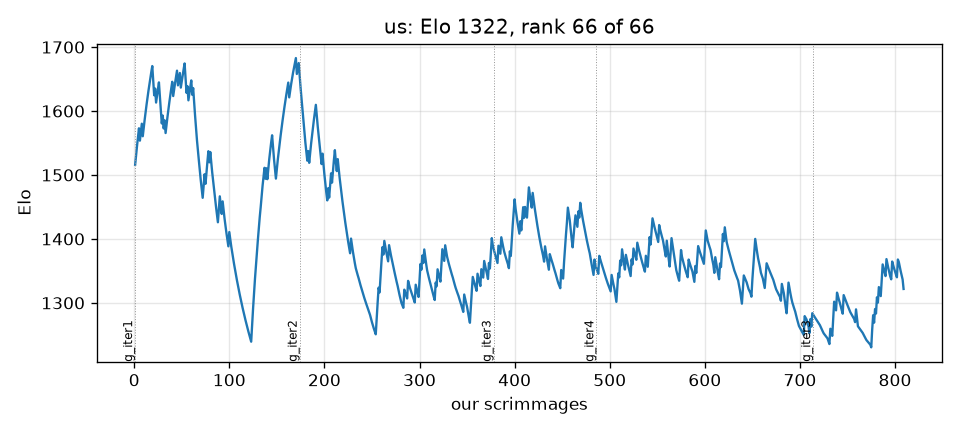
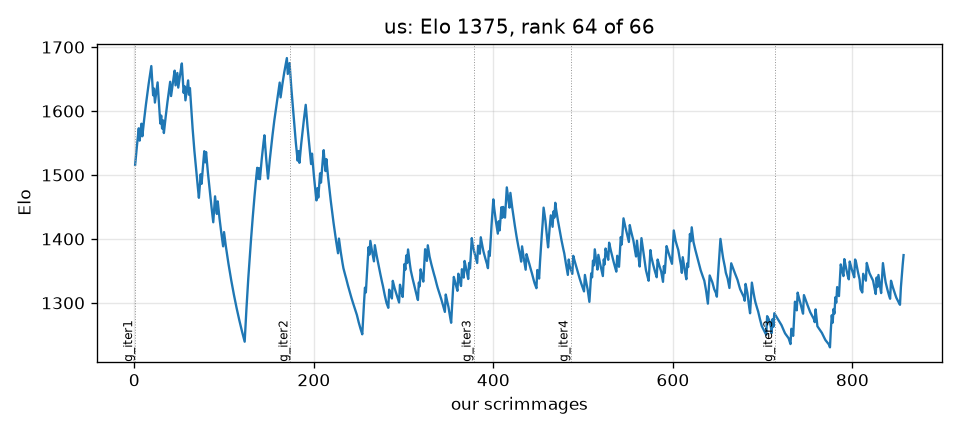
Plateau revision measured (roles need a rewrite, not a patch); src/bot = g_iter3
Claude-Session: https://claude.ai/code/session_01CTUHPRaZ9DbYUkpWKYf2Y2

diff --git a/BENCHMARK.md b/BENCHMARK.md
@@ -61,7 +61,7 @@ every recorded block; the tier is the most recent build's record against that op
 | `EmaPajic.Mark3` | EmaPajic_Battlecode-2020 (c060a22) | - | - | untested |  |
 | `EmaPajic.Mark4` | EmaPajic_Battlecode-2020 (c060a22) | - | - | untested |  |
 | `EmaPajic.Mark5` | EmaPajic_Battlecode-2020 (c060a22) | - | - | untested |  |
-| `EmaPajic.Qualifications` | EmaPajic_Battlecode-2020 (c060a22) | 0 | 12 | locked | 20 0 7 0 |
+| `EmaPajic.Qualifications` | EmaPajic_Battlecode-2020 (c060a22) | 0 | 12 | locked | 20 0 11 0 |
 | `EmaPajic.SeedingBot` | EmaPajic_Battlecode-2020 (c060a22) | - | - | untested |  |
 | `GabrielDWu.basicbot` | GabrielDWu_blezers-battlecode2020 (c0283f8) | - | - | untested |  |
 | `GabrielDWu.blezerbot` | GabrielDWu_blezers-battlecode2020 (c0283f8) | - | - | untested |  |
@@ -79,7 +79,7 @@ every recorded block; the tier is the most recent build's record against that op
 | `IvanGeffner.dronecrunchplus` | IvanGeffner_battlecode2020 (bc7dbca) | - | - | untested |  |
 | `IvanGeffner.ecoplayer` | IvanGeffner_battlecode2020 (bc7dbca) | - | - | untested |  |
 | `IvanGeffner.ecoplus` | IvanGeffner_battlecode2020 (bc7dbca) | - | - | untested |  |
-| `IvanGeffner.finalbota` | IvanGeffner_battlecode2020 (bc7dbca) | 18 | 17 | locked | 0 8 7 18 |
+| `IvanGeffner.finalbota` | IvanGeffner_battlecode2020 (bc7dbca) | 18 | 17 | locked | 0 8 11 18 |
 | `IvanGeffner.finalbotb` | IvanGeffner_battlecode2020 (bc7dbca) | - | - | untested |  |
 | `IvanGeffner.finalbotc` | IvanGeffner_battlecode2020 (bc7dbca) | - | - | untested |  |
 | `IvanGeffner.landscaperop` | IvanGeffner_battlecode2020 (bc7dbca) | - | - | untested |  |
@@ -158,8 +158,8 @@ every recorded block; the tier is the most recent build's record against that op
 | `anthonybench.redemptionplayer` | anthonybench_MITBattleCode-2020 (38fbb99) | - | - | untested |  |
 | `arya-k.donothing` | arya-k_bc20 (1b969b3) | - | - | untested |  |
 | `atliSig.buttletplayer` | atliSig_battlecode20-scaffold (b64b063) | 100 | 1 | peer(>90 once) | 100 |
-| `awesomelemonade.citricsky` | awesomelemonade_Battlecode2020 (7a50e66) | 0 | 16 | locked | 0 0 7 0 |
-| `battlecode20-team4.finalbota` | battlecode20-team4_battlecode20-scaffold (1cee065) | 24 | 17 | target | 0 8 36 24 |
+| `awesomelemonade.citricsky` | awesomelemonade_Battlecode2020 (7a50e66) | 0 | 16 | locked | 0 0 5 0 |
+| `battlecode20-team4.finalbota` | battlecode20-team4_battlecode20-scaffold (1cee065) | 24 | 17 | target | 0 8 33 24 |
 | `battlecode20-team4.team4enemy` | battlecode20-team4_battlecode20-scaffold (1cee065) | - | - | untested |  |
 | `battlecode20-team4.team4player` | battlecode20-team4_battlecode20-scaffold (1cee065) | - | - | untested |  |
 | `battlecode.lectureplayer` | battlecode_lectureplayer (2836576) | - | - | untested |  |
@@ -170,11 +170,11 @@ every recorded block; the tier is the most recent build's record against that op
 | `benzyx.espada` | benzyx_bc20-waterloo (05df2e7) | - | - | untested |  |
 | `benzyx.firstplayer` | benzyx_bc20-waterloo (05df2e7) | - | - | untested |  |
 | `benzyx.kurobot` | benzyx_bc20-waterloo (05df2e7) | - | - | untested |  |
-| `benzyx.seeding` | benzyx_bc20-waterloo (05df2e7) | 40 | 15 | target | 25 17 82 40 |
+| `benzyx.seeding` | benzyx_bc20-waterloo (05df2e7) | 40 | 15 | target | 25 17 77 40 |
 | `benzyx.tortuga` | benzyx_bc20-waterloo (05df2e7) | - | - | untested |  |
 | `charboltron.master_player` | charboltron_pdx_battlecode_2020_team_11 (f78f1e3) | - | - | untested |  |
 | `charboltron.team11newbot` | charboltron_pdx_battlecode_2020_team_11 (f78f1e3) | 100 | 1 | peer(>90 once) | 100 |
-| `cormackikkert.whyPermutator` | cormackikkert_battlecode2020 (4d230c4) | 40 | 15 | target | 25 17 29 40 |
+| `cormackikkert.whyPermutator` | cormackikkert_battlecode2020 (4d230c4) | 40 | 15 | target | 25 17 28 40 |
 | `cormackikkert.whyPermutatorOld` | cormackikkert_battlecode2020 (4d230c4) | - | - | untested |  |
 | `cosimogonnelli.Team3player` | cosimogonnelli_CS454-554-SE (d7dc657) | 80 | 5 | peer | 80 |
 | `cs454-w20-team3.oldbot` | cs454-w20-team3_team3-bot (502c334) | - | - | untested |  |
@@ -202,7 +202,7 @@ every recorded block; the tier is the most recent build's record against that op
 | `kylittle.deliriumv1` | kylittle_DeliriumBattlecode (17a94dd) | - | - | untested |  |
 | `kylittle.qualsbot` | kylittle_DeliriumBattlecode (17a94dd) | - | - | untested |  |
 | `kylittle.qualsbot2` | kylittle_DeliriumBattlecode (17a94dd) | 100 | 1 | peer(>90 once) | 100 |
-| `laurenschneider.pdx_team_one` | laurenschneider_battlecode20-PDXTeamOne (2965376) | 14 | 14 | locked | 0 50 43 14 |
+| `laurenschneider.pdx_team_one` | laurenschneider_battlecode20-PDXTeamOne (2965376) | 14 | 14 | locked | 0 50 39 14 |
 | `lfchain.bigBudsBot` | lfchain_Battlecode2020 (b026153) | 100 | 1 | peer(>90 once) | 100 |
 | `lfchain.fBot` | lfchain_Battlecode2020 (b026153) | - | - | untested |  |
 | `lfchain.jBot` | lfchain_Battlecode2020 (b026153) | - | - | untested |  |
@@ -245,7 +245,7 @@ every recorded block; the tier is the most recent build's record against that op
 | `mvpatel2000.oldhades` | mvpatel2000_Battlecode2020 (554943e) | - | - | untested |  |
 | `mvpatel2000.poseidon` | mvpatel2000_Battlecode2020 (554943e) | - | - | untested |  |
 | `mvpatel2000.quail` | mvpatel2000_Battlecode2020 (554943e) | - | - | untested |  |
-| `mvpatel2000.qual` | mvpatel2000_Battlecode2020 (554943e) | 13 | 15 | locked | 0 8 33 13 |
+| `mvpatel2000.qual` | mvpatel2000_Battlecode2020 (554943e) | 13 | 15 | locked | 0 8 26 13 |
 | `mvpatel2000.qualAttacc` | mvpatel2000_Battlecode2020 (554943e) | - | - | untested |  |
 | `mvpatel2000.qualNoAtacc` | mvpatel2000_Battlecode2020 (554943e) | - | - | untested |  |
 | `mvpatel2000.seeding` | mvpatel2000_Battlecode2020 (554943e) | - | - | untested |  |
@@ -282,7 +282,7 @@ every recorded block; the tier is the most recent build's record against that op
 | `poortho.stable_seeding_bot` | poortho_battlecode-2020 (ebbd61e) | 31 | 16 | target | 0 17 14 31 |
 | `ps789.dennisTestPlayer` | ps789_AZBattlecode (f1d54ab) | - | - | untested |  |
 | `ps789.phillipTestPlayer` | ps789_AZBattlecode (f1d54ab) | - | - | untested |  |
-| `ronniesong0809.finalbota` | ronniesong0809_battlecode20-RADS (1cee065) | 7 | 15 | locked | 0 18 13 7 |
+| `ronniesong0809.finalbota` | ronniesong0809_battlecode20-RADS (1cee065) | 7 | 15 | locked | 0 18 16 7 |
 | `ronniesong0809.team4enemy` | ronniesong0809_battlecode20-RADS (1cee065) | - | - | untested |  |
 | `ronniesong0809.team4player` | ronniesong0809_battlecode20-RADS (1cee065) | - | - | untested |  |
 | `rsandzimier.PlayerAlpha` | rsandzimier_battlecode2020 (8d856c3) | - | - | untested |  |
@@ -292,7 +292,7 @@ every recorded block; the tier is the most recent build's record against that op
 | `rzhan11.kryptonite` | rzhan11_Battlecode2020 (3cc4b50) | - | - | untested |  |
 | `rzhan11.landscaper_rush_bot` | rzhan11_Battlecode2020 (3cc4b50) | - | - | untested |  |
 | `rzhan11.orig_rush_bot` | rzhan11_Battlecode2020 (3cc4b50) | - | - | untested |  |
-| `rzhan11.quals_bot` | rzhan11_Battlecode2020 (3cc4b50) | 12 | 16 | locked | 0 17 7 12 |
+| `rzhan11.quals_bot` | rzhan11_Battlecode2020 (3cc4b50) | 12 | 16 | locked | 0 17 5 12 |
 | `rzhan11.rush_bot` | rzhan11_Battlecode2020 (3cc4b50) | - | - | untested |  |
 | `rzhan11.seeding` | rzhan11_Battlecode2020 (3cc4b50) | - | - | untested |  |
 | `rzhan11.sprint` | rzhan11_Battlecode2020 (3cc4b50) | - | - | untested |  |
@@ -325,9 +325,9 @@ every recorded block; the tier is the most recent build's record against that op
 | `willBoyd8.droideka` | willBoyd8_BattleDroid (4b1d4ad) | - | - | untested |  |
 | `willBoyd8.empire` | willBoyd8_BattleDroid (4b1d4ad) | - | - | untested |  |
 | `willBoyd8.mouse` | willBoyd8_BattleDroid (4b1d4ad) | - | - | untested |  |
-| `winkelmantanner.tannerplayer` | winkelmantanner_battlecode2020_the-levee-builders (7f49f11) | 23 | 13 | target | 0 25 9 23 |
+| `winkelmantanner.tannerplayer` | winkelmantanner_battlecode2020_the-levee-builders (7f49f11) | 23 | 13 | target | 0 25 17 23 |
 | `wpine215.stardustv1` | wpine215_battlecode (d570d57) | - | - | untested |  |
-| `wpine215.stardustv2` | wpine215_battlecode (d570d57) | 65 | 17 | peer | 0 30 27 65 |
+| `wpine215.stardustv2` | wpine215_battlecode (d570d57) | 65 | 17 | peer | 0 30 43 65 |
 | `yaonam.Robot_1` | yaonam_battlecode2020 (bb363f5) | 62 | 8 | peer | 62 |
 
 285 bot packages from 68 repositories.

diff --git a/progress/ELO.md b/progress/ELO.md
@@ -1,21 +1,21 @@
 # Elo ladder
 
-809 scrimmages (ours only); K=32 from 1500; our team is **us**: rank 66 of 66 rated bots, Elo 1322, 809 games; 0 bots not yet met.
+857 scrimmages (ours only); K=32 from 1500; our team is **us**: rank 64 of 66 rated bots, Elo 1375, 857 games; 0 bots not yet met.
 
 | rank | bot | Elo | games | W-L (theirs) |
 |---|---|---|---|---|
-| 1 | awesomelemonade.citricsky | 1736 | 47 | 46-1 |
-| 2 | AngusRitossa.newbot | 1729 | 44 | 42-2 |
-| 3 | EmaPajic.Qualifications | 1727 | 44 | 42-2 |
-| 4 | uvafan.v14_final_bot | 1713 | 41 | 40-1 |
-| 5 | IvanGeffner.finalbota | 1660 | 48 | 43-5 |
-| 6 | ronniesong0809.finalbota | 1648 | 45 | 40-5 |
-| 7 | rzhan11.quals_bot | 1640 | 47 | 42-5 |
-| 8 | poortho.stable_seeding_bot | 1602 | 46 | 37-9 |
-| 9 | winkelmantanner.tannerplayer | 1596 | 40 | 33-7 |
-| 10 | mvpatel2000.qual | 1591 | 46 | 38-8 |
-| 11 | battlecode20-team4.finalbota | 1542 | 44 | 35-9 |
-| 12 | laurenschneider.pdx_team_one | 1502 | 44 | 30-14 |
+| 1 | awesomelemonade.citricsky | 1748 | 51 | 50-1 |
+| 2 | AngusRitossa.newbot | 1734 | 46 | 44-2 |
+| 3 | uvafan.v14_final_bot | 1724 | 45 | 44-1 |
+| 4 | EmaPajic.Qualifications | 1708 | 48 | 45-3 |
+| 5 | rzhan11.quals_bot | 1656 | 51 | 46-5 |
+| 6 | IvanGeffner.finalbota | 1649 | 52 | 46-6 |
+| 7 | ronniesong0809.finalbota | 1634 | 49 | 43-6 |
+| 8 | mvpatel2000.qual | 1613 | 50 | 42-8 |
+| 9 | poortho.stable_seeding_bot | 1602 | 46 | 37-9 |
+| 10 | winkelmantanner.tannerplayer | 1569 | 41 | 33-8 |
+| 11 | battlecode20-team4.finalbota | 1537 | 48 | 38-10 |
+| 12 | laurenschneider.pdx_team_one | 1509 | 48 | 33-15 |
 | 13 | ovimura.welovesoup | 1491 | 1 | 0-1 |
 | 14 | TeamSerpentine.eendagsvliegjes | 1491 | 1 | 0-1 |
 | 15 | orionquick.aldebaranplayer | 1491 | 1 | 0-1 |
@@ -53,7 +53,7 @@
 | 47 | djkeyes.addingComm | 1488 | 1 | 0-1 |
 | 48 | ARognes.FinalSubmission | 1487 | 5 | 2-3 |
 | 49 | cosimogonnelli.Team3player | 1480 | 5 | 1-4 |
-| 50 | cormackikkert.whyPermutator | 1475 | 45 | 32-13 |
+| 50 | cormackikkert.whyPermutator | 1480 | 49 | 35-14 |
 | 51 | yaonam.Robot_1 | 1474 | 8 | 3-5 |
 | 52 | VinayaBhat.team10pdx | 1472 | 7 | 2-5 |
 | 53 | Tim-gubski.AngryWaffleMaker | 1463 | 7 | 2-5 |
@@ -67,6 +67,6 @@
 | 61 | 9mAhmad.lostincoordinates | 1412 | 5 | 0-5 |
 | 62 | 9mAhmad.MahinBot | 1398 | 5 | 0-5 |
 | 63 | mhahn2003.nonrush | 1387 | 21 | 9-12 |
-| 64 | wpine215.stardustv2 | 1379 | 42 | 25-17 |
-| 65 | benzyx.seeding | 1368 | 42 | 24-18 |
-| 66 | **us** | 1322 | 809 | 234-575 |
+| 64 | **us** | 1375 | 857 | 245-612 |
+| 65 | benzyx.seeding | 1364 | 44 | 25-19 |
+| 66 | wpine215.stardustv2 | 1328 | 45 | 25-20 |

diff --git a/TRAINING_LOG.md b/TRAINING_LOG.md
@@ -758,6 +758,14 @@ are never blocked by miners on a corner HQ; feeders that get posted before helpe
 distance-2 tile (or helpers that raise their tile toward the ring once fed by a feeder). The plan
 in HANDOFF is updated with these.
 
+Plateau revision (feeders on any distance-3 tile, shallow flooded ones resurfaced from next door):
+Prison again -- 48 landscapers at r1000, 437 struck-off posts, not one feeder assigned (`pickPost`
+always returns one of the 16 distance-2 tiles, which then proves unreachable), the distance-3 tier
+dug to -3000, 36 landscapers dead by r2000. The Iteration 12 role code cannot be patched into a
+plateau; the roles need a rewrite around tiles a landscaper can hold: pick the nearest free tile it
+can reach and keep dry, at distance 2 or 3, and feed inward. That rewrite is the plateau's stage 2
+and the first job of the next session. `src/bot` back to g_iter3.
+
 ## Ledger (closed directions)
 
 - **The economy regime (Iteration 17, 2026-09-24)** -- 8-24 miners, early vaporators, 20 drones on
